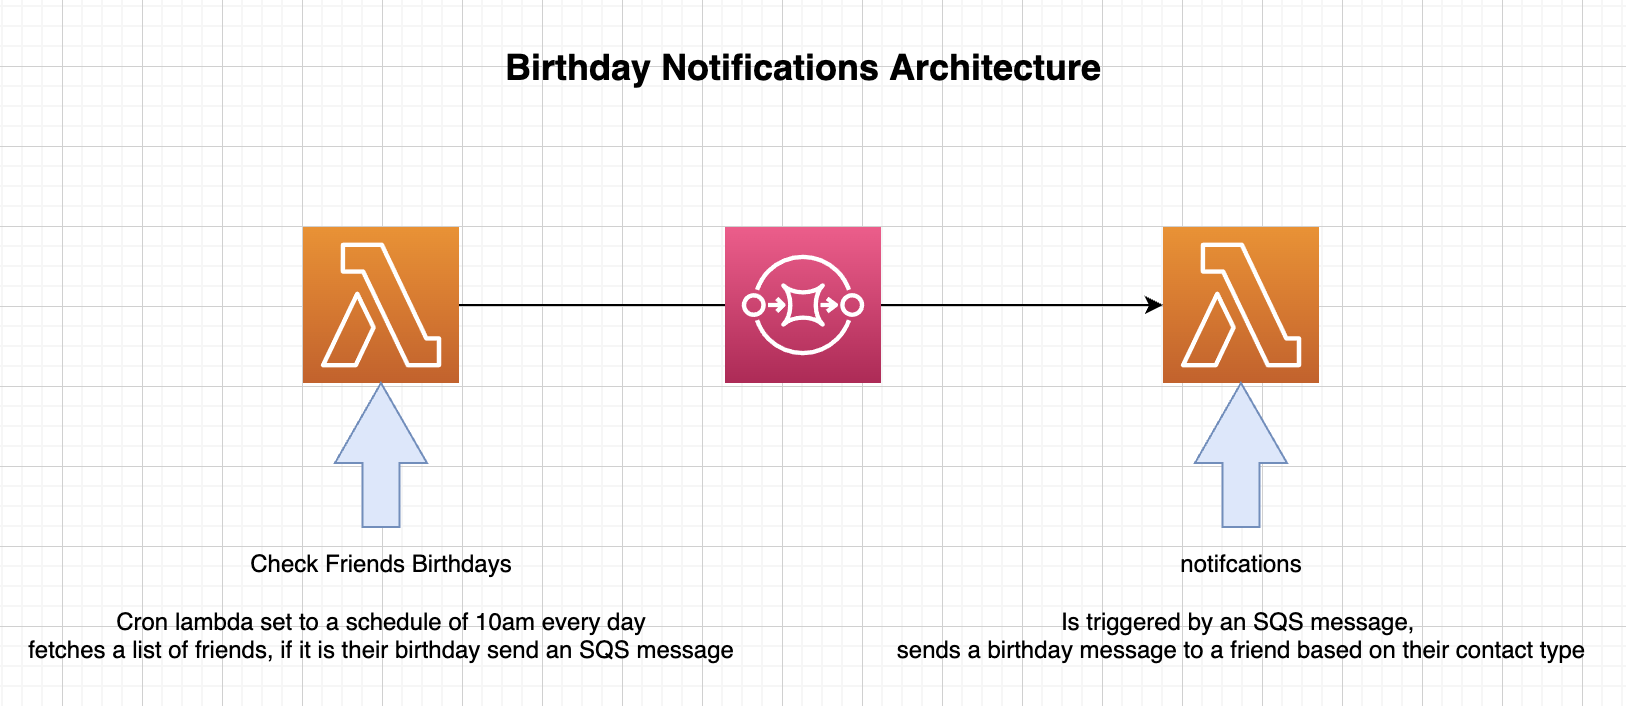
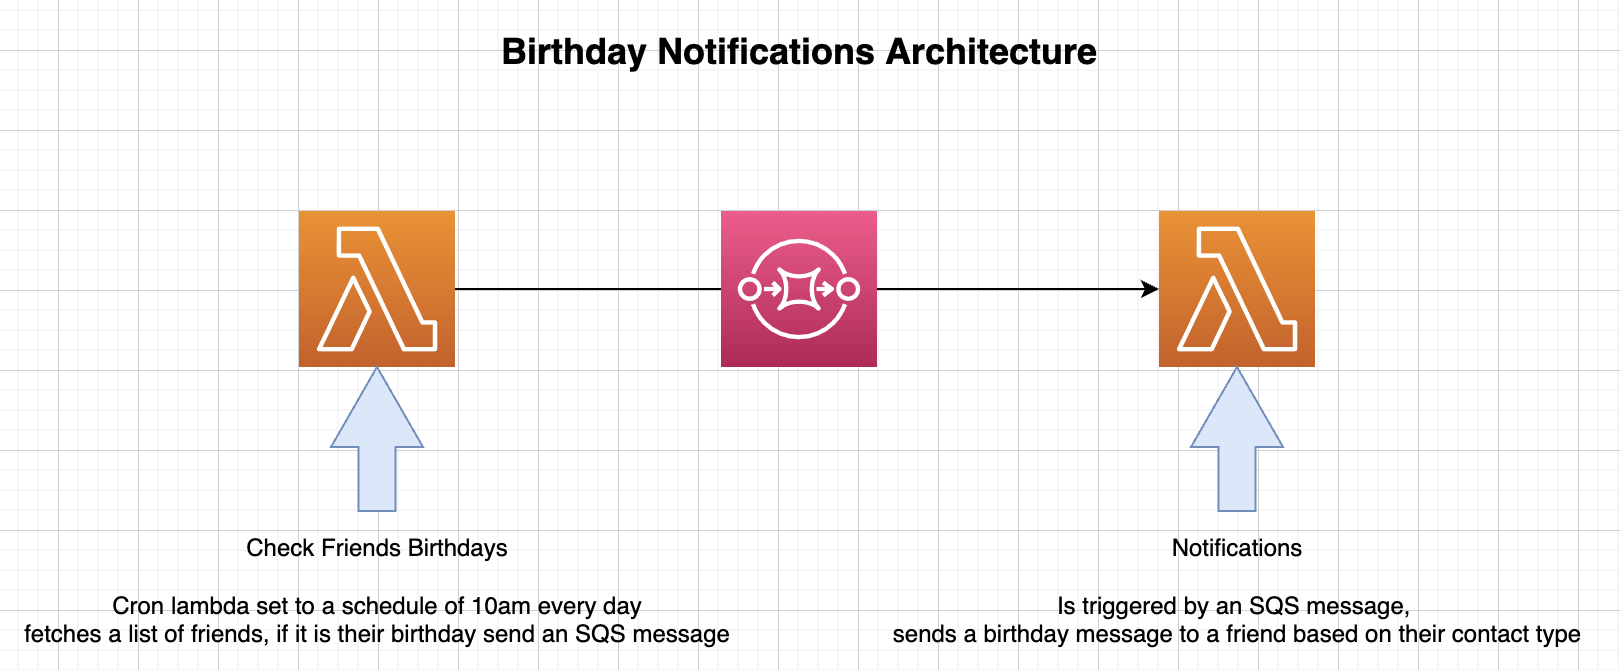
clean up architecture image and requires

diff --git a/src/notification.js b/src/notification.js
@@ -34,13 +34,12 @@ module.exports.sendMessage = async (event) => {
         console.log("ses response", response)
     }
   
-  
     return {
       message: `sent ${message.messageType} notification to ${message.firstName} ${message.lastName}`
     };
 
   } catch(err) {
-    console.log("failed to send event", event)
+    console.log("failed to send notification", event)
     throw new Error(err)
   }
 };
@@ -58,7 +57,7 @@ const sendEmail = async ({email, firstName}) => {
       },
       Body: {
         Html: {
-          Data: "<h1>Happy birthday, dear <firstName>!</h1>",
+          Data: `<h1>Happy birthday, dear ${firstName}!</h1>`,
           Charset: "utf-8",
         },
       },
@@ -66,8 +65,4 @@ const sendEmail = async ({email, firstName}) => {
   };
   const res = await ses.sendEmail(sendEmailConfig).promise();
   return res
-}
-
-const sendSms = () => {
-  console.log("sending sms")
 }

diff --git a/src/check-friends-birthdays.js b/src/check-friends-birthdays.js
@@ -1,7 +1,7 @@
 'use strict';
-const AWS = require('aws-sdk');
 const csv = require('@fast-csv/parse');
 const { findMessageableFriends } = require("./utils/find-messageable-friends")
+const AWS = require('aws-sdk');
 
 AWS.config.update({region:'eu-west-1'})
 
